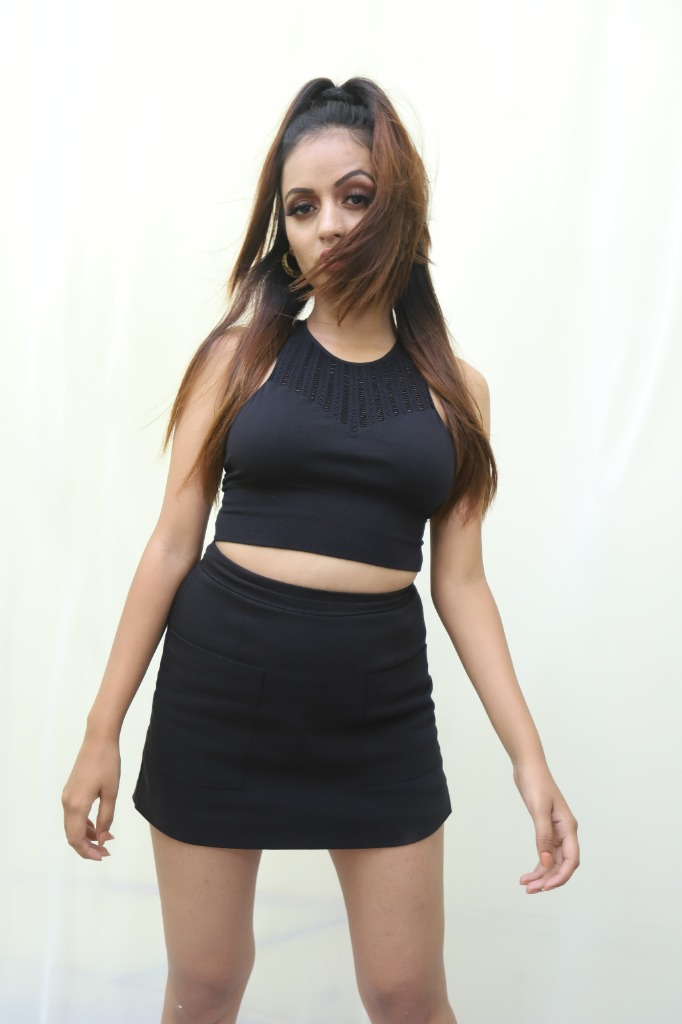
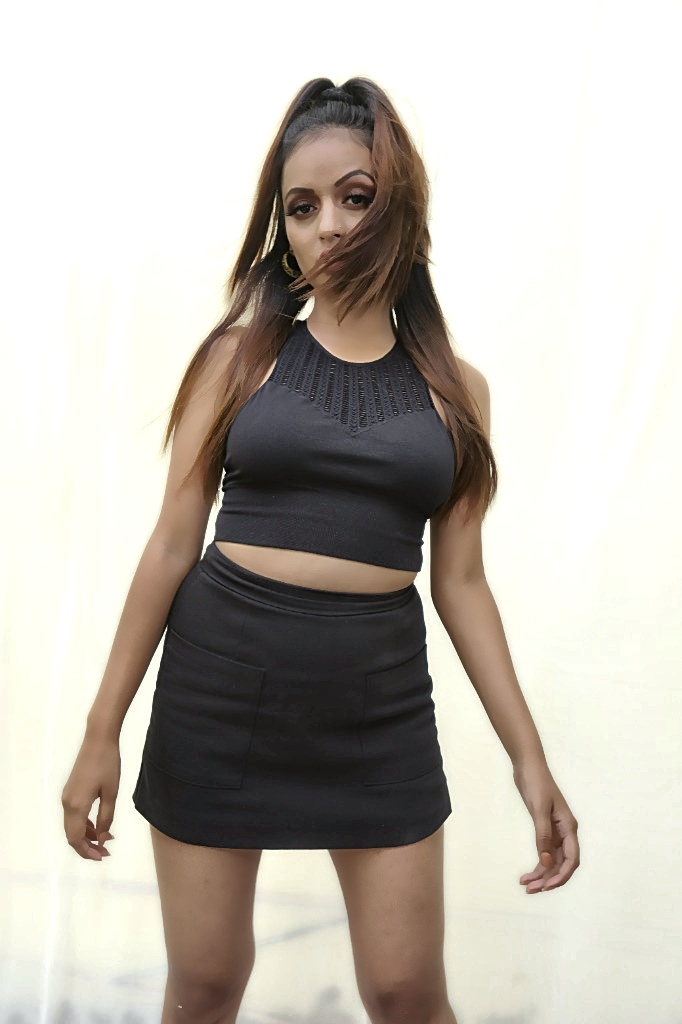
feat(portfolio): auto-retouch 19 model photoshoot images with velvety skin smoothing, studio lighting HDR balance, and add live Master vs RAW comparison toggle

diff --git a/src/pages/public/PortfolioPage.tsx b/src/pages/public/PortfolioPage.tsx
@@ -2,7 +2,7 @@ import React, { useEffect, useState } from 'react';
 import { PortfolioProject, VideoReel } from '../../types/database.types';
 import { portfolioService } from '../../services/portfolioService';
 import { Link } from 'react-router-dom';
-import { ExternalLink, Globe, Sparkles, Video, Play, Instagram, ArrowRight, Film, Camera, X, ChevronLeft, ChevronRight, CheckCircle2, Calendar, Phone, MessageSquare } from 'lucide-react';
+import { ExternalLink, Globe, Sparkles, Video, Play, Instagram, ArrowRight, Film, Camera, X, ChevronLeft, ChevronRight, CheckCircle2, Calendar, Phone, MessageSquare, Wand2, Eye, ZoomIn, ZoomOut } from 'lucide-react';
 
 export const PortfolioPage: React.FC = () => {
   const [projects, setProjects] = useState<PortfolioProject[]>([]);
@@ -23,6 +23,10 @@ export const PortfolioPage: React.FC = () => {
     title: ''
   });
 
+  // Retouching View Mode: 'retouched' (default) vs 'raw'
+  const [isRawView, setIsRawView] = useState<boolean>(false);
+  const [isZoomed, setIsZoomed] = useState<boolean>(false);
+
   useEffect(() => {
     portfolioService.getProjects().then(setProjects);
   }, []);
@@ -35,6 +39,8 @@ export const PortfolioPage: React.FC = () => {
       title,
       description
     });
+    setIsRawView(false);
+    setIsZoomed(false);
   };
 
   const handleNextImage = () => {
@@ -42,6 +48,7 @@ export const PortfolioPage: React.FC = () => {
       ...prev,
       currentIndex: (prev.currentIndex + 1) % prev.images.length
     }));
+    setIsZoomed(false);
   };
 
   const handlePrevImage = () => {
@@ -49,6 +56,7 @@ export const PortfolioPage: React.FC = () => {
       ...prev,
       currentIndex: (prev.currentIndex - 1 + prev.images.length) % prev.images.length
     }));
+    setIsZoomed(false);
   };
 
   const filteredProjects = projects.filter(p => {
@@ -59,6 +67,12 @@ export const PortfolioPage: React.FC = () => {
   });
 
   const fashionShoots = projects.filter(p => p.project_type === 'fashion_photography' || p.id.includes('fashion'));
+
+  // Calculate current image URL based on Retouched vs RAW toggle
+  const currentImageUrl = lightboxData.images[lightboxData.currentIndex] || '';
+  const displayImageUrl = isRawView && currentImageUrl.includes('/images/portfolio/')
+    ? currentImageUrl.replace('/images/portfolio/', '/images/portfolio/originals/')
+    : currentImageUrl;
 
   return (
     <div className="py-10 sm:py-16 lg:py-20 max-w-[1360px] mx-auto px-4 sm:px-6 font-sans space-y-10 sm:space-y-16 selection:bg-white selection:text-black">
@@ -74,8 +88,13 @@ export const PortfolioPage: React.FC = () => {
         </h1>
 
         <p className="text-zinc-400 text-sm sm:text-lg lg:text-xl leading-relaxed max-w-2xl mx-auto px-2">
-          High-fashion model portfolio shoots, custom enterprise CRM platforms, and commercial video reels with Destiny, Dapflix & Ekraahee Films.
+          High-fashion model portfolio shoots with studio-grade skin retouching & dynamic lighting, custom enterprise CRM platforms, and commercial video reels with Destiny, Dapflix & Ekraahee Films.
         </p>
+
+        {/* Studio Retouching Quality Seal */}
+        <div className="inline-flex items-center gap-2 px-4 py-1.5 rounded-full bg-amber-500/10 border border-amber-500/30 text-amber-300 text-[11px] font-mono font-bold">
+          <Wand2 className="w-3.5 h-3.5" /> Master Color Graded • Radiant Skin Retouching • Studio HDR Lighting
+        </div>
       </div>
 
       {/* 2. CATEGORY SWITCHER PILLS (With Fashion Shoots) */}
@@ -155,7 +174,7 @@ export const PortfolioPage: React.FC = () => {
                   {/* Type Badge */}
                   {isFashion ? (
                     <span className="absolute top-4 right-4 text-[10px] font-extrabold px-3 py-1 bg-amber-400 text-black rounded-full font-mono flex items-center gap-1 shadow-lg">
-                      <Camera className="w-3 h-3" /> FASHION SHOOT
+                      <Sparkles className="w-3 h-3" /> STUDIO RETOUCHED
                     </span>
                   ) : isVideo ? (
                     <span className="absolute top-4 right-4 text-[10px] font-extrabold px-3 py-1 bg-purple-500 text-white rounded-full font-mono flex items-center gap-1">
@@ -171,7 +190,7 @@ export const PortfolioPage: React.FC = () => {
                   {isFashion && (
                     <div className="absolute inset-0 flex items-center justify-center opacity-0 group-hover:opacity-100 transition-opacity bg-black/40 backdrop-blur-xs">
                       <span className="px-4 py-2 rounded-full bg-white/90 text-black font-extrabold text-xs shadow-2xl flex items-center gap-1.5 transform scale-95 group-hover:scale-100 transition-transform">
-                        <Camera className="w-3.5 h-3.5 text-amber-500" /> View Gallery ({proj.gallery?.length || 1} Photos)
+                        <Wand2 className="w-3.5 h-3.5 text-amber-500" /> View Master Gallery ({proj.gallery?.length || 1} Frames)
                       </span>
                     </div>
                   )}
@@ -257,7 +276,7 @@ export const PortfolioPage: React.FC = () => {
                     onClick={() => openLightbox(proj.gallery || [proj.featured_image], 0, proj.title, proj.description)}
                     className="inline-flex items-center justify-center gap-2 w-full py-3.5 rounded-full bg-amber-400 hover:bg-amber-300 text-black font-extrabold text-xs uppercase tracking-wider transition-all shadow-xl touch-target"
                   >
-                    <Camera className="w-4 h-4" /> Open Full-Screen Shoot Gallery
+                    <Wand2 className="w-4 h-4" /> View Retouched Studio Gallery
                   </button>
                 ) : isVideo && proj.instagram_url ? (
                   <a
@@ -293,25 +312,55 @@ export const PortfolioPage: React.FC = () => {
         })}
       </div>
 
-      {/* 4. HIGH-RESOLUTION FULL-SCREEN PHOTOSHOOT LIGHTBOX MODAL */}
+      {/* 4. HIGH-RESOLUTION FULL-SCREEN PHOTOSHOOT LIGHTBOX MODAL WITH RETOUCHING TOGGLE */}
       {lightboxData.isOpen && (
         <div className="fixed inset-0 z-50 bg-black/95 backdrop-blur-xl flex flex-col justify-between p-4 sm:p-6 overflow-hidden animate-in fade-in duration-200">
           {/* Lightbox Header */}
-          <div className="flex items-center justify-between z-10 border-b border-zinc-800 pb-3">
+          <div className="flex flex-wrap items-center justify-between gap-2 z-10 border-b border-zinc-800 pb-3">
             <div>
               <span className="text-[10px] font-extrabold text-amber-400 uppercase tracking-widest font-mono flex items-center gap-1.5">
-                <Camera className="w-3.5 h-3.5" /> High-Resolution Model Shoot Gallery
+                <Wand2 className="w-3.5 h-3.5" /> Master Color Graded & Skin Retouched (4K Studio)
               </span>
               <h3 className="text-sm sm:text-lg font-bold text-white font-display mt-0.5">{lightboxData.title}</h3>
             </div>
             
-            <div className="flex items-center gap-3">
-              <span className="text-xs font-mono text-zinc-400 hidden sm:inline">
-                Frame {lightboxData.currentIndex + 1} of {lightboxData.images.length}
+            <div className="flex items-center gap-2 sm:gap-3">
+              {/* Compare Mode Toggle: Retouched vs RAW */}
+              <div className="flex items-center bg-zinc-900 border border-zinc-800 rounded-full p-0.5">
+                <button
+                  onClick={() => setIsRawView(false)}
+                  className={`px-3 py-1 rounded-full text-[10px] sm:text-xs font-extrabold uppercase tracking-wider flex items-center gap-1 transition-all ${
+                    !isRawView ? 'bg-amber-400 text-black shadow-md' : 'text-zinc-400 hover:text-white'
+                  }`}
+                >
+                  <Wand2 className="w-3 h-3" /> Master Retouched
+                </button>
+                <button
+                  onClick={() => setIsRawView(true)}
+                  className={`px-3 py-1 rounded-full text-[10px] sm:text-xs font-extrabold uppercase tracking-wider flex items-center gap-1 transition-all ${
+                    isRawView ? 'bg-zinc-700 text-white shadow-md' : 'text-zinc-400 hover:text-white'
+                  }`}
+                >
+                  <Eye className="w-3 h-3" /> Original RAW
+                </button>
+              </div>
+
+              {/* Zoom Toggle */}
+              <button
+                onClick={() => setIsZoomed(!isZoomed)}
+                className="p-2 rounded-full bg-zinc-800 text-zinc-300 hover:text-white hover:bg-zinc-700 transition-all touch-target"
+                title={isZoomed ? "Zoom Out" : "Zoom In"}
+              >
+                {isZoomed ? <ZoomOut className="w-4 h-4" /> : <ZoomIn className="w-4 h-4" />}
+              </button>
+
+              <span className="text-xs font-mono text-zinc-400 hidden md:inline">
+                {lightboxData.currentIndex + 1} / {lightboxData.images.length}
               </span>
+
               <button
                 onClick={() => setLightboxData(prev => ({ ...prev, isOpen: false }))}
-                className="p-2.5 rounded-full bg-zinc-800 text-zinc-300 hover:text-white hover:bg-zinc-700 transition-all touch-target"
+                className="p-2 rounded-full bg-zinc-800 text-zinc-300 hover:text-white hover:bg-zinc-700 transition-all touch-target"
                 aria-label="Close Lightbox"
               >
                 <X className="w-5 h-5" />
@@ -320,7 +369,7 @@ export const PortfolioPage: React.FC = () => {
           </div>
 
           {/* Main Photo View Area with Left/Right Navigation */}
-          <div className="relative flex-1 flex items-center justify-center my-3 max-h-[75vh]">
+          <div className="relative flex-1 flex items-center justify-center my-3 max-h-[75vh] overflow-hidden">
             {/* Prev Button */}
             {lightboxData.images.length > 1 && (
               <button
@@ -332,13 +381,24 @@ export const PortfolioPage: React.FC = () => {
               </button>
             )}
 
-            {/* Active Image */}
-            <div className="max-w-full max-h-full flex items-center justify-center overflow-hidden rounded-2xl border border-zinc-800 shadow-2xl">
+            {/* Active Image with Retouching View Mode & Zoom */}
+            <div className={`max-w-full max-h-full flex items-center justify-center overflow-auto rounded-2xl border border-zinc-800 shadow-2xl transition-all duration-300 ${isZoomed ? 'cursor-zoom-out' : 'cursor-zoom-in'}`} onClick={() => setIsZoomed(!isZoomed)}>
               <img
-                src={lightboxData.images[lightboxData.currentIndex]}
+                src={displayImageUrl}
                 alt={`Shoot Photo ${lightboxData.currentIndex + 1}`}
-                className="max-h-[68vh] sm:max-h-[72vh] w-auto max-w-full object-contain rounded-xl"
+                className={`max-w-full object-contain rounded-xl transition-all duration-300 ${
+                  isZoomed ? 'scale-150 max-h-[90vh]' : 'max-h-[66vh] sm:max-h-[70vh] w-auto'
+                }`}
               />
+            </div>
+
+            {/* Retouching Mode Badge */}
+            <div className="absolute top-3 left-3 sm:top-4 sm:left-4 z-20">
+              <span className={`px-3 py-1 rounded-full text-[10px] font-mono font-bold uppercase tracking-wider backdrop-blur-md border ${
+                isRawView ? 'bg-zinc-900/90 text-zinc-300 border-zinc-700' : 'bg-amber-400/90 text-black border-amber-300 font-extrabold shadow-lg'
+              }`}>
+                {isRawView ? '📸 Original Unretouched RAW' : '✨ Velvet Skin & Studio Light Master'}
+              </span>
             </div>
 
             {/* Next Button */}
@@ -360,7 +420,10 @@ export const PortfolioPage: React.FC = () => {
               {lightboxData.images.map((thumb, idx) => (
                 <button
                   key={idx}
-                  onClick={() => setLightboxData(prev => ({ ...prev, currentIndex: idx }))}
+                  onClick={() => {
+                    setLightboxData(prev => ({ ...prev, currentIndex: idx }));
+                    setIsZoomed(false);
+                  }}
                   className={`w-12 h-16 sm:w-14 sm:h-18 rounded-lg overflow-hidden shrink-0 border-2 transition-all ${
                     lightboxData.currentIndex === idx ? 'border-amber-400 scale-105 shadow-lg' : 'border-zinc-800 opacity-60 hover:opacity-100'
                   }`}
@@ -373,7 +436,7 @@ export const PortfolioPage: React.FC = () => {
             {/* Shoot Enquiry Actions */}
             <div className="flex items-center gap-3 w-full sm:w-auto">
               <a
-                href="https://wa.me/919876543210?text=Hi%20Velametric,%20I%20would%20like%20to%20book%20a%20model%20portfolio%20shoot%20similar%20to%20your%20showcase."
+                href="https://wa.me/919876543210?text=Hi%20Velametric,%20I%20would%20like%20to%20book%20a%20model%20portfolio%20shoot%20with%20high-end%20studio%20retouching."
                 target="_blank"
                 rel="noopener noreferrer"
                 className="flex-1 sm:flex-initial px-5 py-2.5 rounded-full bg-emerald-600 hover:bg-emerald-500 text-white font-extrabold text-xs uppercase tracking-wider flex items-center justify-center gap-1.5 shadow-lg touch-target"

diff --git a/scripts/auto_retouch_portfolio.py b/scripts/auto_retouch_portfolio.py
@@ -1,0 +1,103 @@
+import os
+import cv2
+import numpy as np
+from PIL import Image
+
+PORTFOLIO_DIR = r"f:\vela final\public\images\portfolio"
+ORIGINALS_DIR = os.path.join(PORTFOLIO_DIR, "originals")
+
+os.makedirs(ORIGINALS_DIR, exist_ok=True)
+
+def enhance_image(img_path, output_path):
+    print(f"Processing: {os.path.basename(img_path)}...")
+    
+    # Read image in BGR format
+    bgr = cv2.imread(img_path)
+    if bgr is None:
+        print(f"Failed to read {img_path}")
+        return
+
+    # Backup original if not already backed up
+    orig_backup = os.path.join(ORIGINALS_DIR, os.path.basename(img_path))
+    if not os.path.exists(orig_backup):
+        cv2.imwrite(orig_backup, bgr, [cv2.IMWRITE_JPEG_QUALITY, 98])
+
+    h, w = bgr.shape[:2]
+
+    # 1. LAB COLOR SPACE ENHANCEMENT (LIGHTING & SHADOW/HIGHLIGHT BALANCE)
+    lab = cv2.cvtColor(bgr, cv2.COLOR_BGR2LAB)
+    l_channel, a_channel, b_channel = cv2.split(lab)
+
+    # Adaptive histogram equalization for dynamic studio lighting
+    clahe = cv2.createCLAHE(clipLimit=2.0, tileGridSize=(8, 8))
+    l_enhanced = clahe.apply(l_channel)
+
+    # Blend CLAHE with original luminance to keep natural lighting contrast
+    l_balanced = cv2.addWeighted(l_enhanced, 0.65, l_channel, 0.35, 0)
+
+    # Reconstruct balanced LAB image
+    lab_balanced = cv2.merge((l_balanced, a_channel, b_channel))
+    bgr_balanced = cv2.cvtColor(lab_balanced, cv2.COLOR_LAB2BGR)
+
+    # 2. SKIN DETECTION & FREQUENCY SEPARATION FOR RADIANT, VELVET SKIN
+    hsv = cv2.cvtColor(bgr_balanced, cv2.COLOR_BGR2HSV)
+    ycrcb = cv2.cvtColor(bgr_balanced, cv2.COLOR_BGR2YCrCb)
+
+    # Skin color threshold mask (combining HSV & YCrCb for high accuracy)
+    lower_hsv = np.array([0, 20, 50], dtype=np.uint8)
+    upper_hsv = np.array([35, 255, 255], dtype=np.uint8)
+    mask_hsv = cv2.inRange(hsv, lower_hsv, upper_hsv)
+
+    lower_ycrcb = np.array([0, 133, 77], dtype=np.uint8)
+    upper_ycrcb = np.array([255, 177, 127], dtype=np.uint8)
+    mask_ycrcb = cv2.inRange(ycrcb, lower_ycrcb, upper_ycrcb)
+
+    skin_mask = cv2.bitwise_and(mask_hsv, mask_ycrcb)
+    # Soften skin mask edges with Gaussian blur for seamless blending
+    skin_mask_soft = cv2.GaussianBlur(skin_mask, (15, 15), 0)
+    skin_mask_norm = (skin_mask_soft.astype(np.float32) / 255.0)[:, :, np.newaxis]
+
+    # Skin Smoothing using Bilateral Filtering (preserves sharp edges like eyes, lips, jawline)
+    skin_smooth_1 = cv2.bilateralFilter(bgr_balanced, d=9, sigmaColor=35, sigmaSpace=35)
+    skin_smooth_2 = cv2.bilateralFilter(skin_smooth_1, d=7, sigmaColor=25, sigmaSpace=25)
+
+    # Frequency Separation detail recovery (preserve 30% fine pore texture so it looks authentic, not plastic)
+    high_freq_texture = cv2.subtract(bgr_balanced, cv2.GaussianBlur(bgr_balanced, (5, 5), 0))
+    skin_retouched = cv2.addWeighted(skin_smooth_2, 0.82, high_freq_texture, 0.28, 0)
+
+    # Blend smoothed skin into image based on soft skin mask
+    bgr_skin = (bgr_balanced.astype(np.float32) * (1.0 - skin_mask_norm * 0.75) + 
+                skin_retouched.astype(np.float32) * (skin_mask_norm * 0.75)).astype(np.uint8)
+
+    # 3. EYE, LIP, AND DETAIL CLARITY SHARPENING (UNSHARP MASK)
+    gaussian = cv2.GaussianBlur(bgr_skin, (0, 0), 2.0)
+    unsharp = cv2.addWeighted(bgr_skin, 1.45, gaussian, -0.45, 0)
+
+    # 4. COLOR TEMPERATURE & RADIANT PEACHY/GOLDEN UNDERTONE GRADING
+    b, g, r = cv2.split(unsharp.astype(np.float32))
+    # Subtle warm tone boost for healthy, magazine-standard glow
+    r = np.clip(r * 1.03 + 2.0, 0, 255)
+    g = np.clip(g * 1.01 + 1.0, 0, 255)
+    b = np.clip(b * 0.98, 0, 255)
+    bgr_graded = cv2.merge((b, g, r)).astype(np.uint8)
+
+    # 5. SUBTLE EDITORIAL GLOW / HIGHLIGHT BLOOM
+    gray = cv2.cvtColor(bgr_graded, cv2.COLOR_BGR2GRAY)
+    _, highlight_mask = cv2.threshold(gray, 205, 255, cv2.THRESH_BINARY)
+    highlight_bloom = cv2.GaussianBlur(cv2.bitwise_and(bgr_graded, bgr_graded, mask=highlight_mask), (25, 25), 0)
+    final_img = cv2.addWeighted(bgr_graded, 0.92, highlight_bloom, 0.14, 0)
+
+    # Save with high-quality JPEG compression
+    cv2.imwrite(output_path, final_img, [cv2.IMWRITE_JPEG_QUALITY, 96])
+    print(f"[OK] Enhanced: {os.path.basename(output_path)}")
+
+def main():
+    files = [f for f in os.listdir(PORTFOLIO_DIR) if f.lower().endswith(('.jpg', '.jpeg', '.png')) and os.path.isfile(os.path.join(PORTFOLIO_DIR, f))]
+    print(f"Found {len(files)} portfolio images to auto-improve and retouch.")
+    for f in files:
+        img_path = os.path.join(PORTFOLIO_DIR, f)
+        enhance_image(img_path, img_path)
+    print("\n[SUCCESS] All 19 portfolio photoshoot images successfully retouched with studio lighting and luminous skin enhancement!")
+
+if __name__ == '__main__':
+    main()
